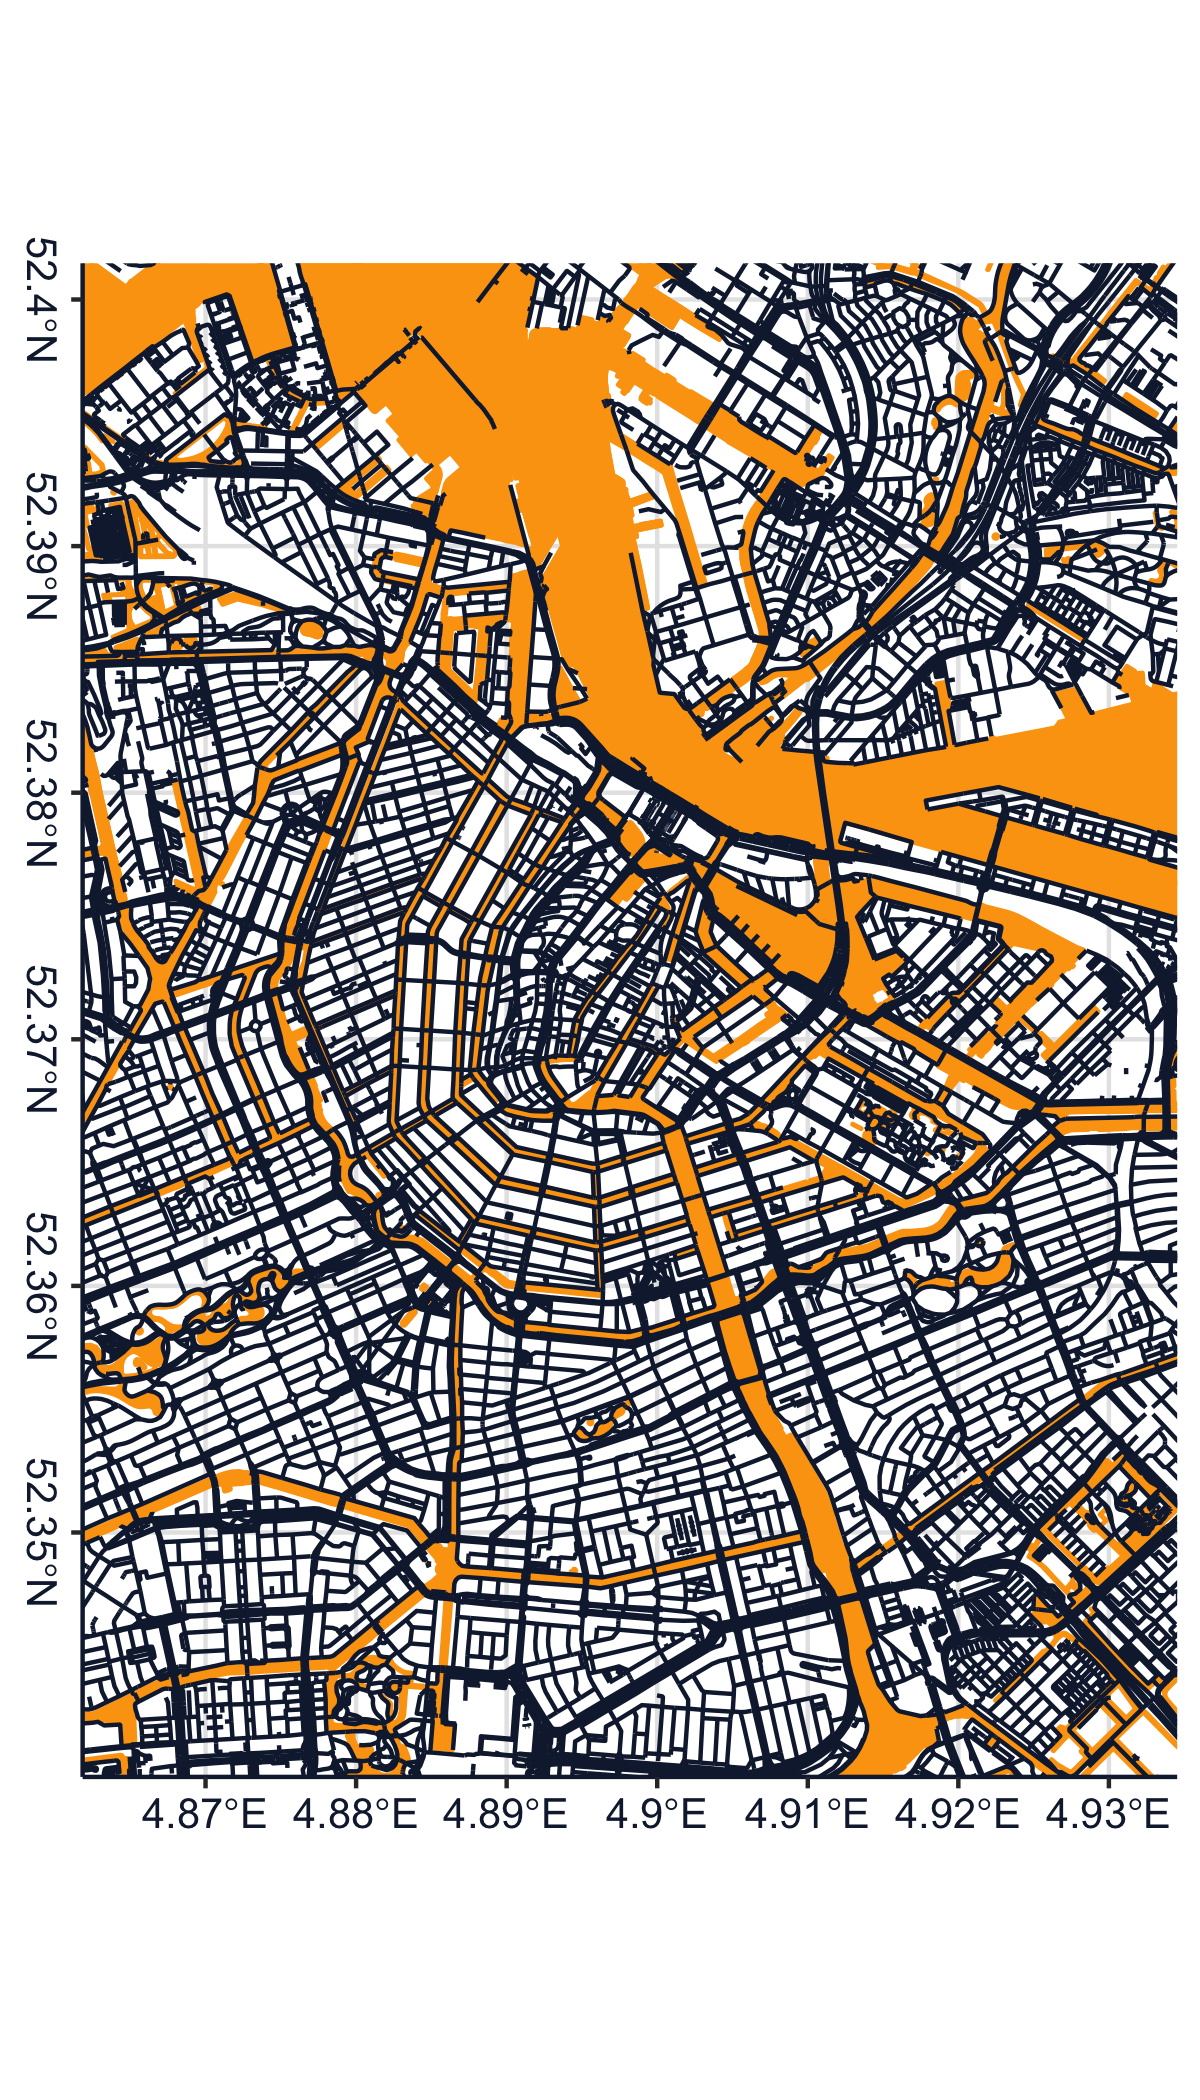
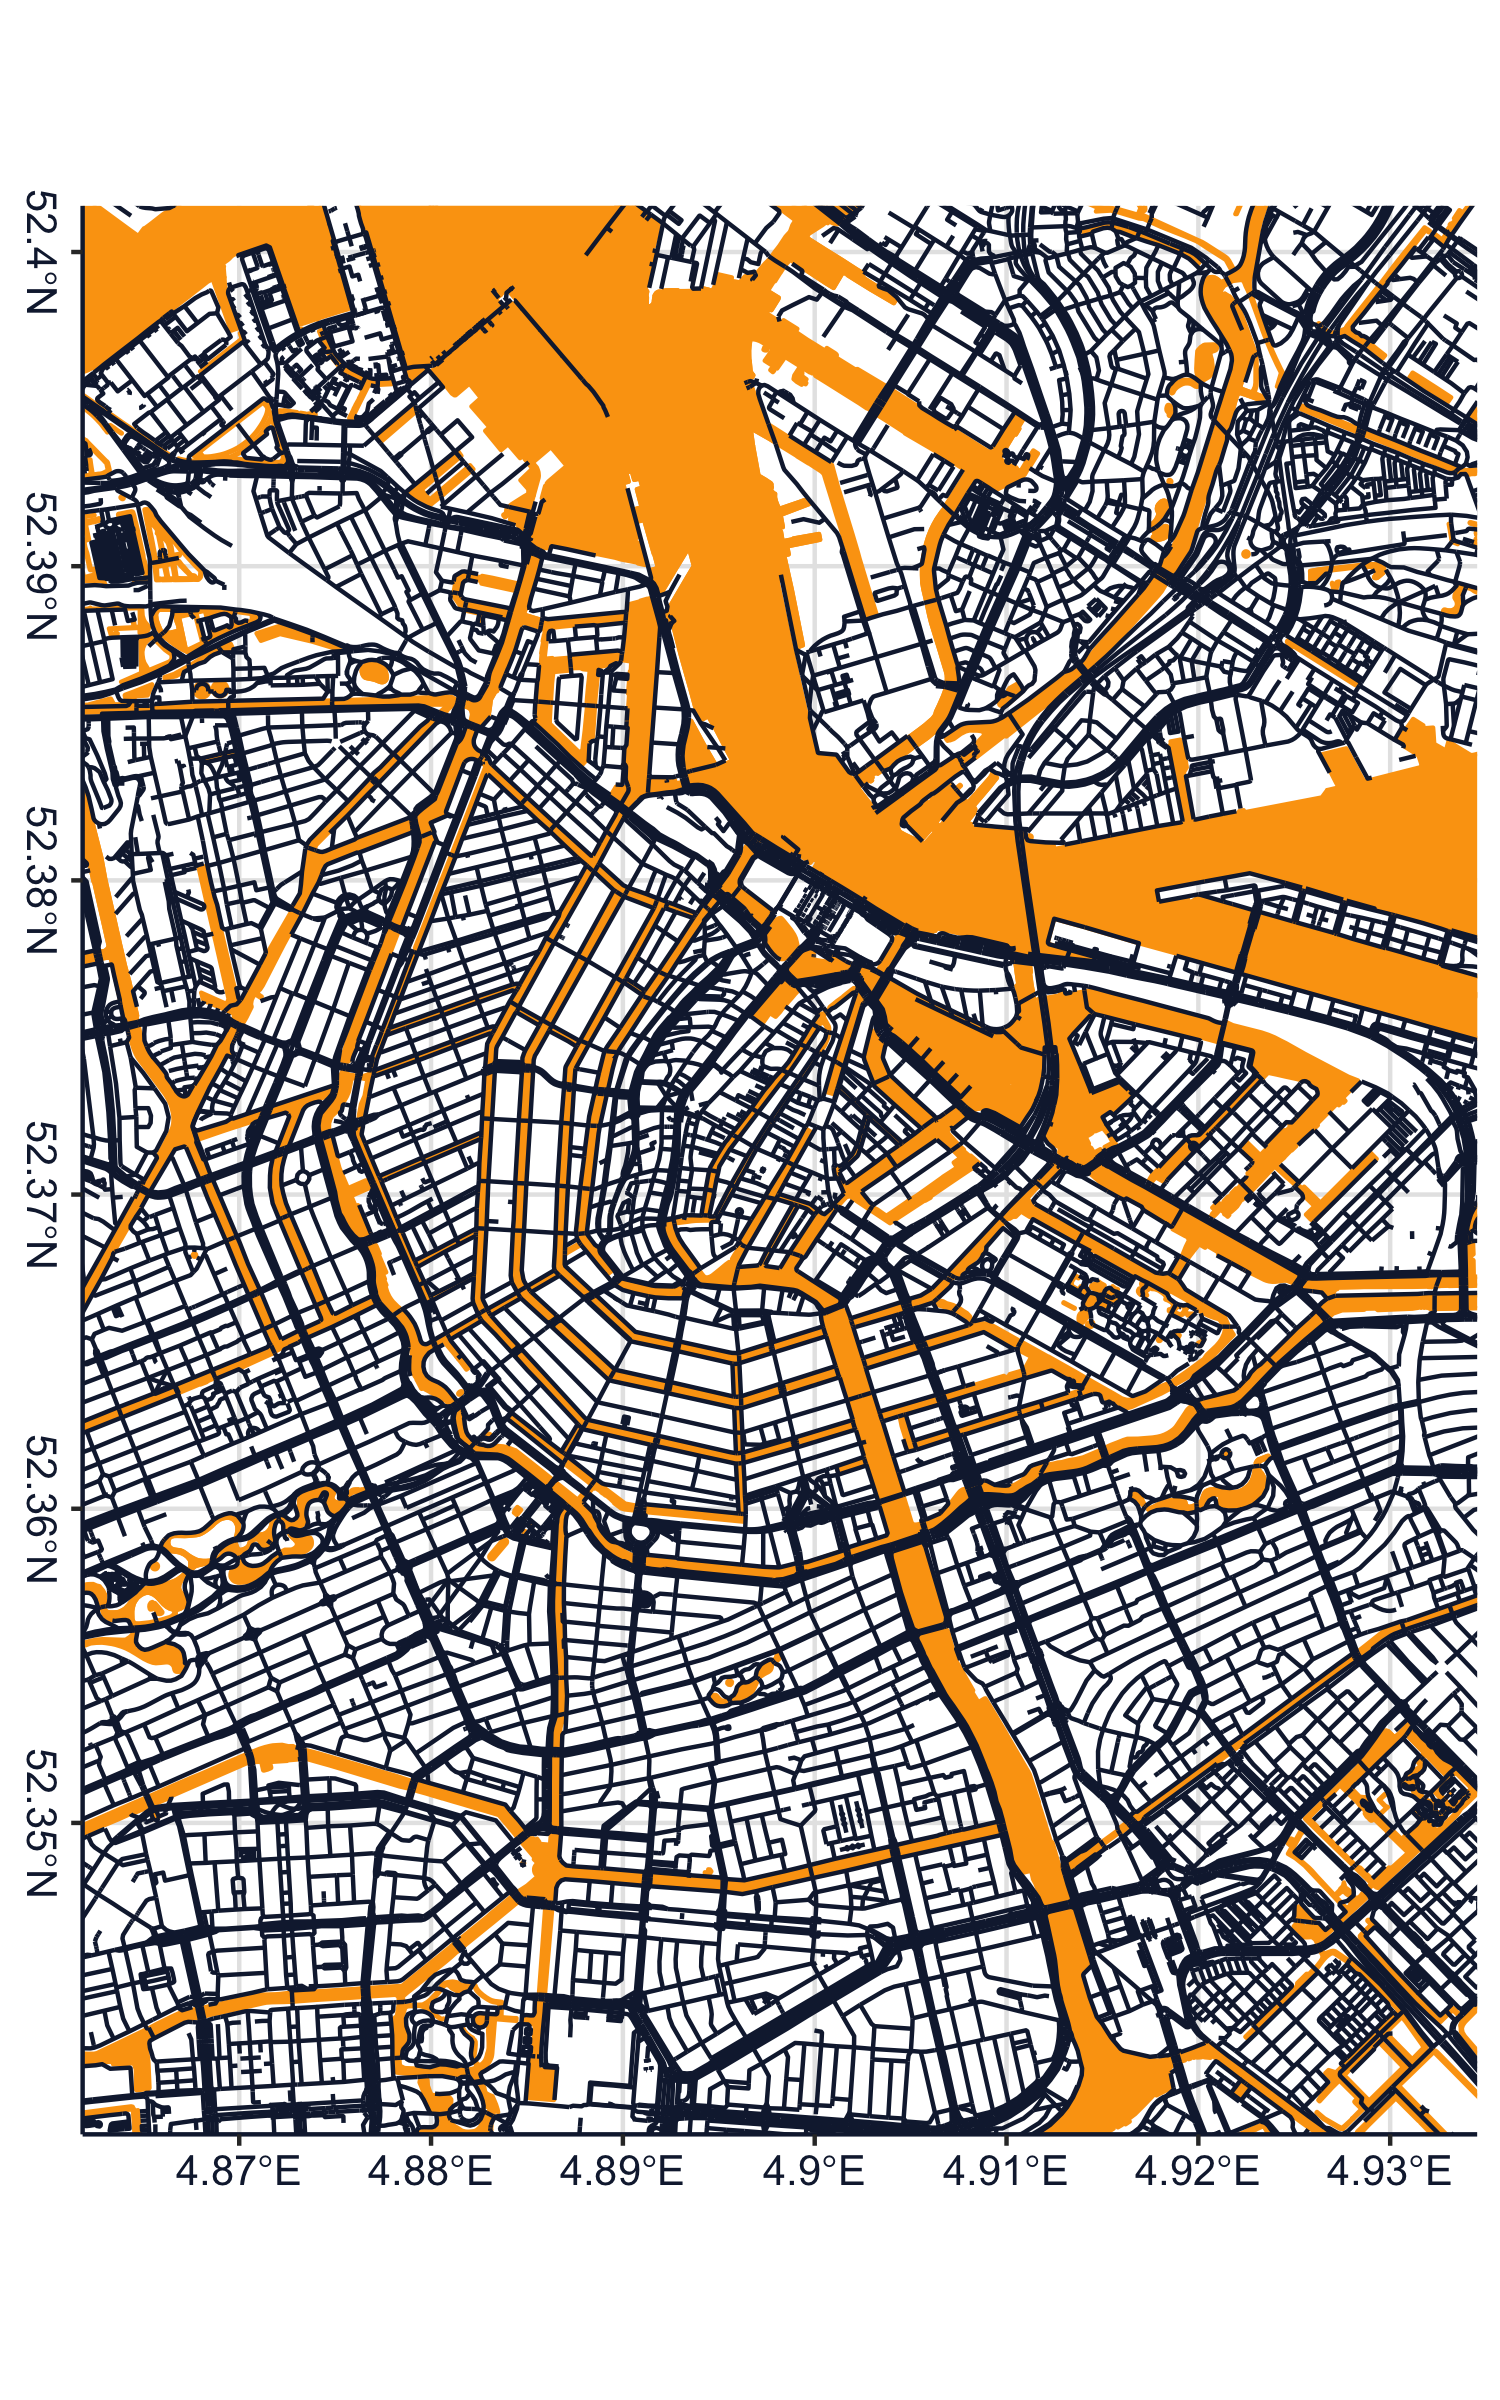
Re-render README

diff --git a/README.md b/README.md
@@ -3,7 +3,7 @@
 
 ![Mockup of rendered map on the wall.](./example.jpg)
 
-Collection of R functions to render minimal maps using `R`.
+Collection of R functions to render minimal maps using `ggplot`.
 
 # Getting Started
 
@@ -21,6 +21,7 @@ source("load.R")
 
 # Download mapdata
 if (!file.exists(get_cache_path("amsterdam_example", type = "boundingbox"))) {
+  # Example bounding box of central Amsterdam
   boundingbox <- st_bbox(c(xmin = 4.861836, ymin = 52.340088, xmax = 4.934535, ymax = 52.401469))
   
   # This will download the data and automatically write it into a cache file
